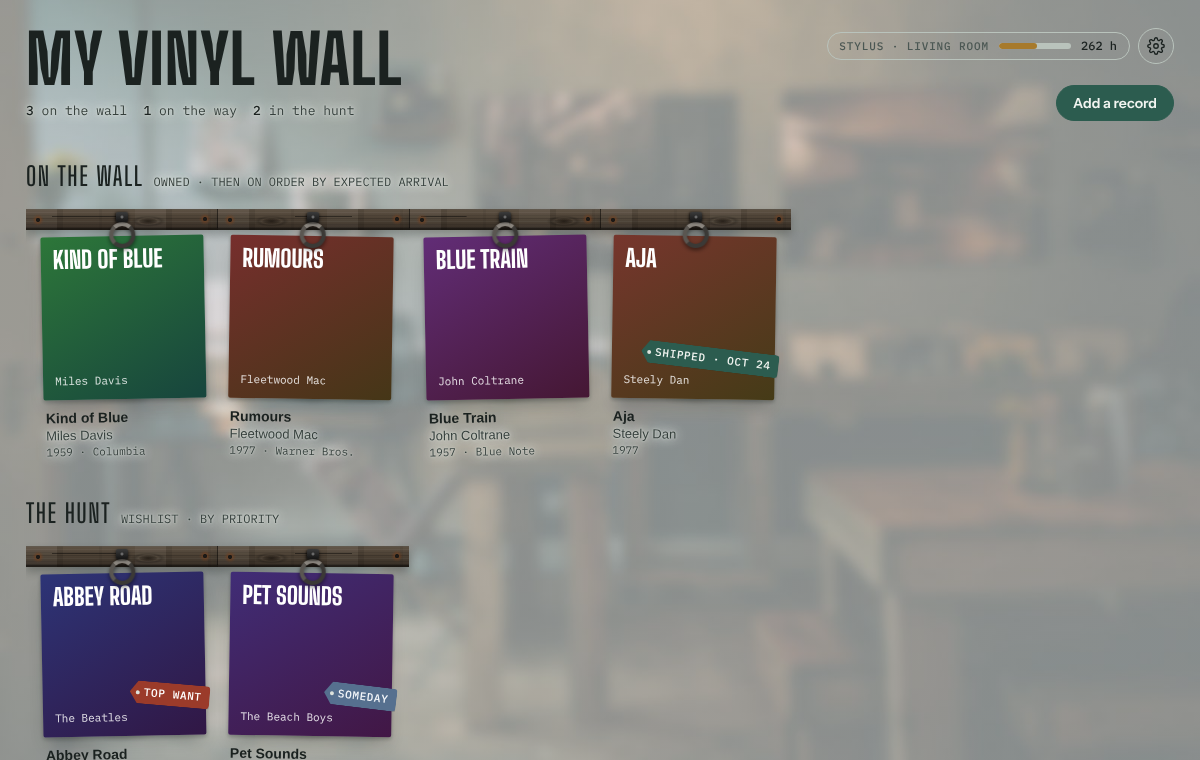
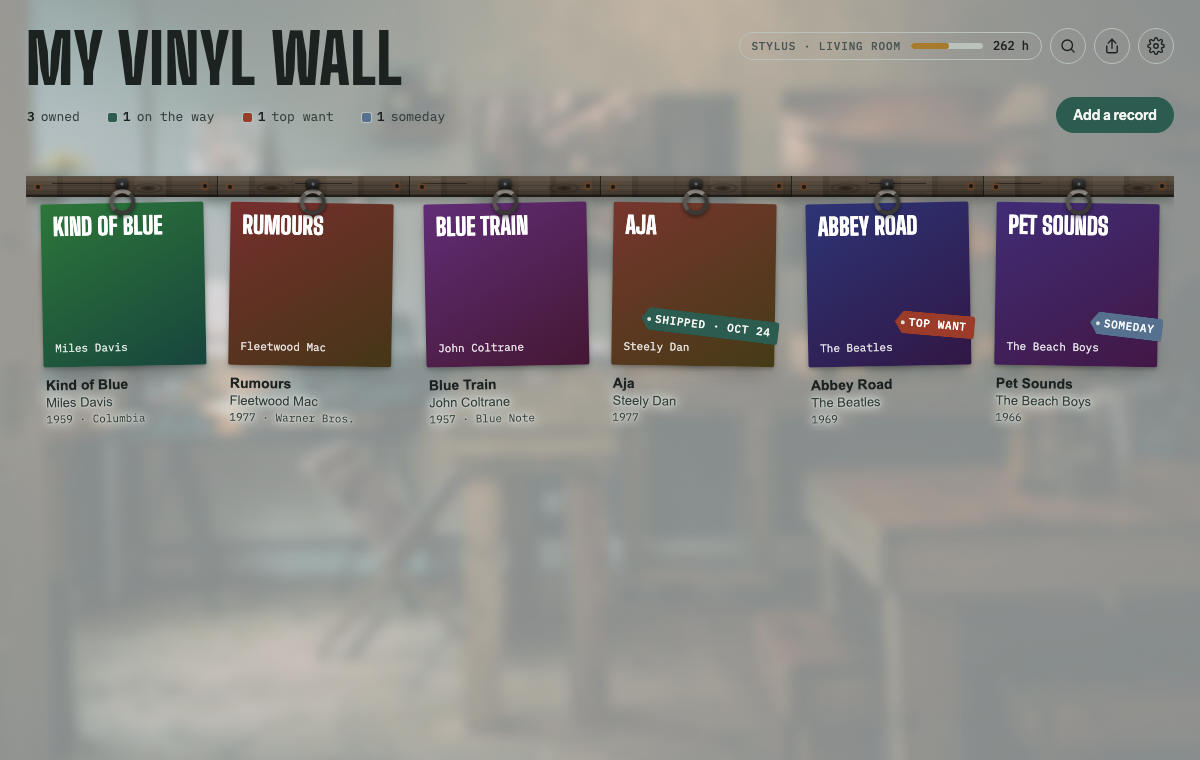
Release v0.9.0, the 1.0 beta: search the wall (#15) (#17)
* Search the wall (#15); README screenshots; 0.9.0, the 1.0 beta

A search icon beside Share and Settings opens a field under the counts line. Every
typed word must match the title, artist, label or year (capitals and accents
ignored); it combines with the badge filter, isn't remembered, and the share image
follows it. No matches says so with a way to clear. On phones the counts and the
search field get full-width rows under the title. README screenshots retaken from
the sample data; README marks 0.9.0 as the 1.0 beta.

* Title: more space between wrapped lines; one word too long for the line ends in an ellipsis

---------

diff --git a/app/vinyl-wall.html b/app/vinyl-wall.html
@@ -5,7 +5,7 @@
 <link rel="stylesheet" href="https://fonts.googleapis.com/css2?family=Big+Shoulders+Display:wght@600;800&family=Instrument+Sans:wght@400;500;600&family=IBM+Plex+Mono:wght@400;500&display=swap">
 <style>
 /* Layout: a listening-room wall. A weathered barnwood plank with iron rings runs across each row; sleeves hang from them.
-   One wall of every record, owned, on order and hunted, narrowed by the filter in the counts line. Detail opens in a side sheet. */
+   One wall of every record, owned, on order and hunted, narrowed by the filter in the counts line and by search. Detail opens in a side sheet. */
 :root{
   --wall:#dde2dc; --wall-2:#cfd6cf; --ink:#1b2220; --ink-2:#4b5753; --line:#b9c3bc;
   --rail:#6a462b; --rail-hi:#8b6140; --brass:#a77a2c; --accent:#2c5c4f; --accent-ink:#f2f5f1;
@@ -94,17 +94,22 @@ header.top>.headtext .tally{column-gap:6px;row-gap:4px}
 @media (max-width:640px){
   /* phones: share and Settings sit together top right beside the title; the gear pill and Add a record share the next row */
   /* three columns so the icons get a narrow one of their own at the right edge: the title spans everything left of them,
-     and Add a record spans the last two columns on the row below */
-  header.top{grid-template-columns:minmax(0,1fr) auto auto;gap:14px 12px}
-  header.top>.headtext{grid-column:1/3;grid-row:1}
-  header.top>.headtools{display:contents}
+     and Add a record spans the last two columns on the bottom row. The counts and search get full-width rows of their own
+     under the title, so the icons don't squeeze them; rows are spaced by margins since the hidden ones leave empty tracks */
+  header.top{grid-template-columns:minmax(0,1fr) auto auto;gap:0 12px}
+  header.top>.headtext,header.top>.headtools{display:contents}
+  header.top h1{grid-column:1/3;grid-row:1}
   .headicons{grid-column:3;grid-row:1;align-self:start;justify-self:end}
-  #stylusBtn{grid-column:1;grid-row:2;justify-self:start;align-self:center}
-  header.top>.actions{grid-column:2/4;grid-row:2;justify-self:end;align-self:center}
+  header.top .tally{grid-column:1/-1;grid-row:2}
+  header.top .searchbar{grid-column:1/-1;grid-row:3;max-width:none}
+  #stylusBtn{grid-column:1;grid-row:4;justify-self:start;align-self:center;margin-top:14px}
+  header.top>.actions{grid-column:2/4;grid-row:4;justify-self:end;align-self:center;margin-top:14px}
   header.top h1{font-size:clamp(30px,8vw,48px)}
 }
 #shareBtn[hidden]{display:none}
-h1{font-family:var(--display);font-weight:800;font-size:clamp(40px,7vw,68px);line-height:.9;margin:0;letter-spacing:.01em;text-transform:uppercase;text-wrap:balance}
+h1{font-family:var(--display);font-weight:800;font-size:clamp(40px,7vw,68px);line-height:1;margin:0;letter-spacing:.01em;text-transform:uppercase;text-wrap:balance;min-width:0}
+/* a single word too long for the line is cut off with an ellipsis instead of running under the icons */
+h1.trunc{white-space:nowrap;overflow:hidden;text-overflow:ellipsis}
 .sub{color:var(--ink-2);margin:6px 0 0;max-width:56ch}
 .tally{font-family:var(--mono);font-size:13px;color:var(--ink-2);display:flex;gap:18px;font-variant-numeric:tabular-nums}
 .tally b{color:var(--ink);font-weight:500}
@@ -118,6 +123,12 @@ h1{font-family:var(--display);font-weight:800;font-size:clamp(40px,7vw,68px);lin
 .sw{width:9px;height:9px;border-radius:2px;background:var(--paper);box-shadow:0 0 0 1px var(--line)}
 /* phones: just each badge's color and count, on one line (owned has no badge, so it keeps its word); the words stay for screen readers */
 @media (max-width:640px){.fchip:not([data-f="own"]) .fl{position:absolute;width:1px;height:1px;overflow:hidden;clip-path:inset(50%);white-space:nowrap}}
+.searchbar{display:flex;gap:8px;align-items:center;margin-top:12px;max-width:420px}
+.searchbar[hidden]{display:none}
+.searchbar input{flex:1;min-width:0;border-radius:999px;padding:8px 14px}
+.searchbar .iconbtn{flex:none}
+#searchBtn[hidden]{display:none}
+#searchBtn[aria-expanded="true"]{background:color-mix(in srgb,var(--ink) 9%,transparent);border-color:var(--ink-2)}
 .sw.ship{background:var(--accent)}.sw.p1{background:var(--want)}.sw.p3{background:var(--someday)}
 .btn{font:600 14px/1 var(--body);border:1px solid var(--line);background:transparent;color:var(--ink);border-radius:999px;padding:10px 16px;cursor:pointer}
 .btn:hover{border-color:var(--ink-2)}
@@ -384,9 +395,11 @@ fieldset.gsec>p.hint{margin-bottom:12px}
     <div class="headtext">
       <h1 id="pageTitle">My Vinyl Wall</h1>
       <div class="tally" id="filters" role="group" aria-label="Show on the wall"><button class="fchip" type="button" data-f="own"><b>0</b><span class="fl"> owned</span></button><button class="fchip" type="button" data-f="ord"><i class="sw ship"></i><b>0</b><span class="fl"> on the way</span></button><button class="fchip" type="button" data-f="p1"><i class="sw p1"></i><b>0</b><span class="fl"> top want</span></button><button class="fchip" type="button" data-f="p2"><i class="sw"></i><b>0</b><span class="fl"> want</span></button><button class="fchip" type="button" data-f="p3"><i class="sw p3"></i><b>0</b><span class="fl"> someday</span></button></div>
+      <div class="searchbar" id="searchBar" role="search" hidden><input type="search" id="q" placeholder="Title, artist, label or year" aria-label="Search the wall" autocomplete="off" enterkeyhint="search"><button class="iconbtn" id="qClear" type="button" aria-label="Clear search" title="Clear search"><svg viewBox="0 0 24 24" fill="none" stroke="currentColor" stroke-width="1.8" stroke-linecap="round" aria-hidden="true"><path d="M6 6l12 12M18 6L6 18"/></svg></button></div>
     </div>
     <div class="headtools"><button class="stylus" id="stylusBtn" type="button" aria-label="Equipment and stylus wear"><span class="lbl" id="gearLbl">Gear</span><span class="meter" id="stylusMeter"><i style="width:0%"></i></span><span class="hrs" id="stylusHrs">—</span></button>
-      <span class="headicons"><button class="iconbtn editonly" id="shareBtn" type="button" aria-label="Share your wall" title="Share your wall" hidden><svg viewBox="0 0 24 24" fill="none" stroke="currentColor" stroke-width="1.8" stroke-linecap="round" stroke-linejoin="round" aria-hidden="true"><path d="M12 3v12"/><path d="M7 8l5-5 5 5"/><path d="M5 12v7a2 2 0 0 0 2 2h10a2 2 0 0 0 2-2v-7"/></svg></button>
+      <span class="headicons"><button class="iconbtn" id="searchBtn" type="button" aria-label="Search the wall" title="Search the wall" aria-expanded="false" aria-controls="searchBar" hidden><svg viewBox="0 0 24 24" fill="none" stroke="currentColor" stroke-width="1.8" stroke-linecap="round" stroke-linejoin="round" aria-hidden="true"><circle cx="11" cy="11" r="7"/><path d="M20 20l-3.5-3.5"/></svg></button>
+      <button class="iconbtn editonly" id="shareBtn" type="button" aria-label="Share your wall" title="Share your wall" hidden><svg viewBox="0 0 24 24" fill="none" stroke="currentColor" stroke-width="1.8" stroke-linecap="round" stroke-linejoin="round" aria-hidden="true"><path d="M12 3v12"/><path d="M7 8l5-5 5 5"/><path d="M5 12v7a2 2 0 0 0 2 2h10a2 2 0 0 0 2-2v-7"/></svg></button>
       <button class="iconbtn editonly" id="settingsBtn" type="button" aria-label="Settings" title="Settings"><svg viewBox="0 0 24 24" fill="none" stroke="currentColor" stroke-width="1.8" stroke-linecap="round" stroke-linejoin="round" aria-hidden="true"><circle cx="12" cy="12" r="3"/><path d="M19.4 15a1.7 1.7 0 0 0 .3 1.8l.1.1a2 2 0 1 1-2.8 2.8l-.1-.1a1.7 1.7 0 0 0-1.8-.3 1.7 1.7 0 0 0-1 1.5V21a2 2 0 1 1-4 0v-.1a1.7 1.7 0 0 0-1.1-1.5 1.7 1.7 0 0 0-1.8.3l-.1.1a2 2 0 1 1-2.8-2.8l.1-.1a1.7 1.7 0 0 0 .3-1.8 1.7 1.7 0 0 0-1.5-1H3a2 2 0 1 1 0-4h.1a1.7 1.7 0 0 0 1.5-1.1 1.7 1.7 0 0 0-.3-1.8l-.1-.1a2 2 0 1 1 2.8-2.8l.1.1a1.7 1.7 0 0 0 1.8.3H9a1.7 1.7 0 0 0 1-1.5V3a2 2 0 1 1 4 0v.1a1.7 1.7 0 0 0 1 1.5 1.7 1.7 0 0 0 1.8-.3l.1-.1a2 2 0 1 1 2.8 2.8l-.1.1a1.7 1.7 0 0 0-.3 1.8V9a1.7 1.7 0 0 0 1.5 1H21a2 2 0 1 1 0 4h-.1a1.7 1.7 0 0 0-1.5 1z"/></svg></button></span></div>
     <div class="actions">
       <button class="btn primary editonly" id="addBtn" type="button">Add a record</button>
@@ -408,6 +421,7 @@ fieldset.gsec>p.hint{margin-bottom:12px}
   <section class="wallsec" aria-label="Records">
     <div class="rack" id="rack"></div>
     <div class="empty" id="emptyWall" hidden>Nothing hanging yet. Add a record you own, or one you're hunting for.</div>
+    <div class="empty" id="noMatch" hidden><span id="noMatchMsg"></span> <button class="linkbtn" type="button" id="noMatchClear" style="margin:0;font-size:inherit;color:var(--accent)">Clear the search</button></div>
   </section>
   <div class="status" id="status">Loading the wall…</div>
 </div>
@@ -500,21 +514,34 @@ function wallLists(){
 const FKEYS=["own","ord","p1","p2","p3"],FLABEL={own:"owned",ord:"on the way",p1:"top want",p2:"want",p3:"someday"};
 function fkey(r){return r.status==="ordered"?"ord":r.status==="wish"?(r.priority==1?"p1":r.priority==3?"p3":"p2"):"own"}
 let wallFilter=new Set();try{for(const k of JSON.parse(localStorage.getItem("rw.filter")||"[]")) if(FKEYS.includes(k)) wallFilter.add(k)}catch(e){}
+// search: every typed word must appear in the title, artist, label or year; capitals and accents don't matter. Not remembered.
+const fold=t=>String(t??"").normalize("NFD").replace(/[\u0300-\u036f]/g,"").toLowerCase();
+function searchWords(){return $("#searchBar").hidden?[]:fold($("#q").value).split(/\s+/).filter(Boolean)}
+function matches(r,words){const hay=fold([r.title,r.artist,r.label,r.year].join(" "));return words.every(w=>hay.includes(w))}
 function shownList(){
   const {own,ord,wish}=wallLists(),all=own.concat(ord,wish),n={};for(const r of all) n[fkey(r)]=(n[fkey(r)]||0)+1;
-  const on=FKEYS.filter(k=>wallFilter.has(k)&&n[k]);
-  return {n,on,list:on.length?all.filter(r=>on.includes(fkey(r))):all};
+  const on=FKEYS.filter(k=>wallFilter.has(k)&&n[k]),words=searchWords();
+  return {n,on,words,list:all.filter(r=>(!on.length||on.includes(fkey(r)))&&(!words.length||matches(r,words)))};
 }
+function closeSearch(){$("#q").value="";$("#searchBar").hidden=true;$("#searchBtn").setAttribute("aria-expanded","false");render()}
+$("#searchBtn").addEventListener("click",()=>{if(!$("#searchBar").hidden)return closeSearch();
+  $("#searchBar").hidden=false;$("#searchBtn").setAttribute("aria-expanded","true");$("#q").focus()});
+$("#q").addEventListener("input",()=>render());
+$("#q").addEventListener("keydown",e=>{if(e.key==="Escape"){e.stopPropagation();closeSearch();$("#searchBtn").focus()}});
+$("#qClear").addEventListener("click",()=>{closeSearch();$("#searchBtn").focus()});
+$("#noMatchClear").addEventListener("click",()=>{closeSearch();$("#searchBtn").focus()});
 $("#filters").addEventListener("click",e=>{const b=e.target.closest(".fchip");if(!b)return;const k=b.dataset.f;
   wallFilter.has(k)?wallFilter.delete(k):wallFilter.add(k);
   try{localStorage.setItem("rw.filter",JSON.stringify([...wallFilter]))}catch(e){}
   render()});
 function render(){
   {const seen=new Set();records=records.filter(r=>!seen.has(r.id)&&seen.add(r.id));}
-  const {n,on,list}=shownList();
+  const {n,on,words,list}=shownList();
   syncRack($("#rack"),list);
   for(const id of sleeveCache.keys()) if(!records.some(r=>r.id===id)) sleeveCache.delete(id);
-  $("#emptyWall").hidden=list.length>0;
+  $("#emptyWall").hidden=list.length>0||records.length>0; $("#noMatch").hidden=list.length>0||!records.length;
+  if(!list.length&&records.length) $("#noMatchMsg").textContent=`Nothing on the wall matches “${$("#q").value.trim()}”${on.length?" with this filter":""}.`;
+  $("#searchBtn").hidden=!records.length;
   for(const b of document.querySelectorAll(".fchip")){const k=b.dataset.f;
     b.querySelector("b").textContent=n[k]||0; b.hidden=!n[k]; b.setAttribute("aria-pressed",String(on.includes(k)))}
   if(openId&&!String(openId).startsWith("__")){const r=records.find(x=>x.id===openId); if(!r) closeSheet();}
@@ -1116,7 +1143,7 @@ $("#stylusBtn").addEventListener("click",()=>openGear());
 // ---------- Settings: title, background, Discogs
 const BG_PRESETS=[["listening","Listening room"],["crates","Crate digging"],["cafe","Coffee shop"],["tavern","Cozy tavern"],["grille","Speaker grille"],["pegboard","Pegboard"],["grooves","Grooves"],["walnut","Walnut paneling"],["foam","Studio foam"],["sunburst","Sunburst"],["spines","Crate dig"],["felt","Felt slipmat"],["plain","Plain wall"]];
 const DEFAULT_TITLE="My Vinyl Wall";
-const APP_VERSION="0.6.1"; // stamped per release; must match VERSION (the release workflow checks)
+const APP_VERSION="0.9.0"; // stamped per release; must match VERSION (the release workflow checks)
 const REPO_URL="https://github.com/ober37/vinyl-wall";
 const DEFAULT_BG="listening";
 // softened photo presets and their credits (shown in Settings, repeated in the README)
@@ -1128,9 +1155,12 @@ const PHOTO_PRESETS={
 let settings={},myId=null,userCap=null;
 document.body.classList.add("bg-"+DEFAULT_BG);
 const DEFAULT_RAIL="barn"; document.body.classList.add("rail-"+DEFAULT_RAIL);
+function fitTitle(){const h=$("#pageTitle");h.classList.remove("trunc");const cut=h.scrollWidth>h.clientWidth+1;
+  h.classList.toggle("trunc",cut);if(cut)h.title=h.textContent;else h.removeAttribute("title")}
+addEventListener("resize",fitTitle);
 function applySettings(){
   const t=(settings.title||"").trim()||DEFAULT_TITLE;
-  $("#pageTitle").textContent=t; document.title=t;
+  $("#pageTitle").textContent=t; document.title=t; fitTitle();
   const b=document.body; [...b.classList].filter(c=>c.startsWith("bg-")).forEach(c=>b.classList.remove(c));
   const bg=settings.bg||{kind:"preset",preset:DEFAULT_BG};
   if(bg.kind==="photo"&&bg.assetId){b.classList.add("bg-photo");b.style.setProperty("--bg-url",`url("/_blob/${bg.assetId}")`);b.style.setProperty("--bg-dim",(settings.dim??70)+"%")}
@@ -1435,7 +1465,7 @@ async function drawShare(withImages){
   const F={title:'800 84px "Big Shoulders Display"',gen:'800 22px "Big Shoulders Display"',
     cap:'600 20px "Instrument Sans"',by:'400 17px "Instrument Sans"',mono:'500 20px "IBM Plex Mono"',small:'500 13px "IBM Plex Mono"',tag:'500 13px "IBM Plex Mono"'};
   await Promise.all(Object.values(F).map(f=>document.fonts.load(f).catch(()=>{})));
-  const {n,on,list}=shownList();
+  const {list}=shownList();
   const pad=60,gap=24,sw=(SHARE_W-2*pad-(SHARE_COLS-1)*gap)/SHARE_COLS,railH=20,rowH=36+sw+64+28;
   const H=pad+100+76+Math.ceil(Math.min(list.length,SHARE_MAX)/SHARE_COLS)*rowH+(list.length>SHARE_MAX?40:0)+pad;
   const shown=list.slice(0,SHARE_MAX);
@@ -1452,7 +1482,8 @@ async function drawShare(withImages){
   let y=pad;glow(true);
   ctx.fillStyle=C.ink;ctx.font=F.title;ctx.fillText(fitText(ctx,((settings.title||"").trim()||DEFAULT_TITLE).toUpperCase(),SHARE_W-2*pad),pad,y);y+=100;
   ctx.fillStyle=C.ink2;ctx.font=F.mono;
-  ctx.fillText(FKEYS.filter(k=>n[k]&&(!on.length||on.includes(k))).map(k=>n[k]+" "+FLABEL[k]).join("  ·  "),pad,y);y+=76;glow(false);
+  const shownN={};for(const r of list) shownN[fkey(r)]=(shownN[fkey(r)]||0)+1;
+  ctx.fillText(FKEYS.filter(k=>shownN[k]).map(k=>shownN[k]+" "+FLABEL[k]).join("  ·  "),pad,y);y+=76;glow(false);
   for(let i=0;i<shown.length;i+=SHARE_COLS){
     const row=shown.slice(i,i+SHARE_COLS),rw=row.length*sw+(row.length-1)*gap;
     const g=ctx.createLinearGradient(0,y,0,y+railH);g.addColorStop(0,"#5e5244");g.addColorStop(.5,"#4a3f33");g.addColorStop(1,"#2f2820");

diff --git a/README.md b/README.md
@@ -4,17 +4,19 @@ A record wall for your vinyl collection, built to run in [Claude](https://claude
 
 Your records hang on a rack with their real album covers. Keep a wishlist of the ones you're hunting, track orders on the way, write notes and a listening log for each album, and log wear on your turntable, cartridge and stylus. Optionally, keep it all in sync with your Discogs collection and wantlist.
 
+**0.9.0 is the 1.0 beta.** Everything planned for 1.0 is in. Try it and [tell us what works and what doesn't](https://github.com/ober37/vinyl-wall/issues/new/choose) before 1.0.
+
 ![Vinyl Wall in dark mode](docs/screenshots/wall-dark.png)
 
 ## Set it up
 
 Paste this into a new Claude conversation:
 
-> Set up a Vinyl Wall for me by following the instructions at https://raw.githubusercontent.com/ober37/vinyl-wall/v0.6.1/SETUP.md
+> Set up a Vinyl Wall for me by following the instructions at https://raw.githubusercontent.com/ober37/vinyl-wall/v0.9.0/SETUP.md
 
 Claude publishes the wall as your own private page, creates the background task that finds covers and syncs Discogs, and walks you through the rest. It takes a few minutes. Your records, notes and settings belong to your account only; nothing is shared with this project.
 
-**Updating.** When a new version is out, a dot appears on the wall's Settings button and Settings says an update is available. Settings shows a sentence to send Claude, with a Copy button; paste it into a chat and Claude updates the wall. Your records and settings stay as they are. (Walls set up before in-app updates existed need one manual update: ask Claude *"Update my Vinyl Wall using https://raw.githubusercontent.com/ober37/vinyl-wall/v0.6.1/SETUP.md"*, with the newest version number.)
+**Updating.** When a new version is out, a dot appears on the wall's Settings button and Settings says an update is available. Settings shows a sentence to send Claude, with a Copy button; paste it into a chat and Claude updates the wall. Your records and settings stay as they are. (Walls set up before in-app updates existed need one manual update: ask Claude *"Update my Vinyl Wall using https://raw.githubusercontent.com/ober37/vinyl-wall/v0.9.0/SETUP.md"*, with the newest version number.)
 
 ### What your Claude setup needs
 
@@ -26,7 +28,7 @@ If something's missing, Claude tells you before building anything.
 
 ## Features
 
-- **The wall.** Every record hangs from iron rings on a weathered barnwood plank: what you own, then orders on the way by expected arrival, then the hunt by priority. Tags show each record's status, and tapping the counts under the title filters the wall to one or more of them. Hover (or tap) a sleeve to open it.
+- **The wall.** Every record hangs from iron rings on a weathered barnwood plank: what you own, then orders on the way by expected arrival, then the hunt by priority. Tags show each record's status, and tapping the counts under the title filters the wall to one or more of them. Search by title, artist, label or year to find a record fast. Hover (or tap) a sleeve to open it.
 - **The hunt.** A wishlist with priorities (Top want, Want, Someday), a budget, and a target pressing. One-click search links (Discogs, eBay, MusicStack, Popsike) and optional research from Claude on which pressings to look for.
 - **Automatic details.** Add just an artist and album: the cover, year, label and runtime are looked up for you.
 - **Your copy.** Media and sleeve grades, catalog number, pressing, matrix/runout, where you bought it and what you paid.

diff --git a/docs/ROADMAP.md b/docs/ROADMAP.md
@@ -8,6 +8,7 @@ Vinyl Wall runs inside Claude, so a one-off question or fix ("point this record 
 
 1. **First outside install** by a tester, from the setup link alone.
 
+Done in v0.9.0, the 1.0 beta: search the wall (#15).
 Done in v0.6.1: a simpler "Add equipment" flow: pick the type, then only its fields (#8).
 Done in v0.6.0: one wall with status badges and filters (#13), and the version in Settings → Help.
 Done in v0.5.2: a share image of the wall to save or post, and a Help section in Settings.
@@ -20,10 +21,7 @@ Each item below is a [GitHub issue labeled enhancement](https://github.com/ober3
 
 ## 1.0
 
-Required for the 1.0 release ([milestone](https://github.com/ober37/vinyl-wall/milestone/1)).
-
-### Search the wall (#15)
-Type a few letters to find a record. To be scoped after #8.
+Everything in the [1.0 milestone](https://github.com/ober37/vinyl-wall/milestone/1) shipped in v0.9.0, the 1.0 beta. 1.0.0 follows once beta feedback is in.
 
 ## Future, roughly in order of fit
 

diff --git a/SETUP.md b/SETUP.md
@@ -2,10 +2,10 @@
 
 These instructions are written for **Claude** to follow on behalf of the person who asked to set up (or update) a Vinyl Wall. If you are a person, you don't need to read this: paste the prompt from the [README](README.md) into Claude.
 
-Release: **v0.6.1**. All file links below point at this tag. Replace `v0.6.1` only if the person asks for a different version.
+Release: **v0.9.0**. All file links below point at this tag. Replace `v0.9.0` only if the person asks for a different version.
 
 ```
-BASE = https://raw.githubusercontent.com/ober37/vinyl-wall/v0.6.1
+BASE = https://raw.githubusercontent.com/ober37/vinyl-wall/v0.9.0
 ```
 
 ---
